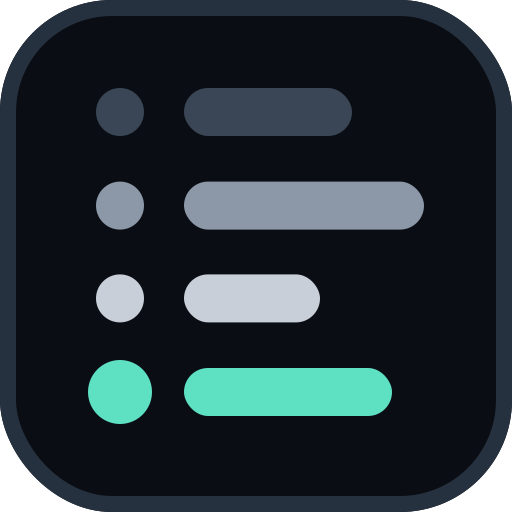
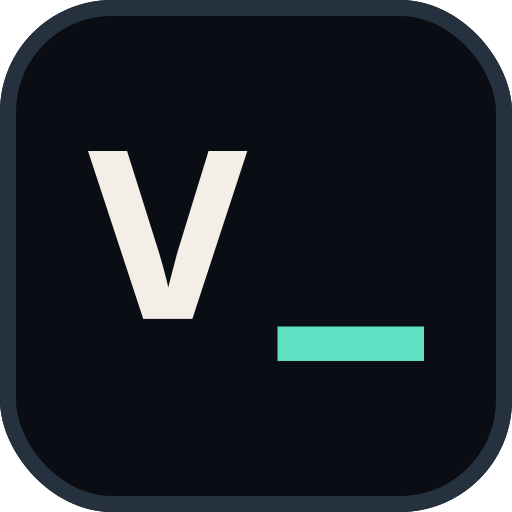
fix: 아이콘을 v_ 원형(자연 모노 간격)으로 확정 — 정렬만 보정
왜: 커밋 로그 심볼도, 커닝으로 당긴 v_도 결국 변형이었다 (Jessi: …). JetBrains Mono Bold의 v와 _를 자연 어드밴스(600유닛) 그대로 두고, 잉크 전체를 좌우 11px·수직 정중앙으로 정렬만 했다. 콘텐츠가 안전 원 안에 들어 maskable도 축소 없이 같은 배치. 16px 가독·원형 크롭 확인, 시안 승인 후 적용.

Claude-Session: https://claude.ai/code/session_01WuW6xZfcXoUaVcGfDkFzy2

Changed region(s): [[0.1562, 0.1562, 0.8438, 0.8125], [0.1562, 0.6875, 0.3125, 0.8438]]

diff --git a/.claude/skills/vibelog-design/README.md b/.claude/skills/vibelog-design/README.md
@@ -84,7 +84,7 @@ Vibelog(바이브 로그) — 바이브 코딩 프로젝트들의 제작기·현
 폰트: Google Fonts `Noto Sans KR 400 500 700 900` + `JetBrains Mono 500 700` (`tokens/fonts.css`). 렌더 환경(Remotion/Playwright)에는 Noto Sans CJK KR 로컬 설치.
 
 ## Assets
-- 로고 없음. 워드마크는 텍스트(`vibelog` **JetBrains Mono 700** — 코드 느낌, Jessi 지시. 쇼츠 타이포의 Noto Sans KR 900은 별개). 파비콘·앱 아이콘은 **커밋 로그 심볼**(커밋 점+메시지 줄 4개, 최신이 민트 — app/icon.svg). 레터마크 v_는 폐기(Jessi). OG 카드는 모노 워드마크.
+- 로고 없음. 워드마크는 텍스트(`vibelog` **JetBrains Mono 700** — 코드 느낌, Jessi 지시. 쇼츠 타이포의 Noto Sans KR 900은 별개). 파비콘·앱 아이콘은 **`v_` 레터마크**(JetBrains Mono Bold, 자연 모노 간격 그대로 — 커닝 등 변형 금지, Jessi 확정. app/icon.svg). OG 카드는 모노 워드마크.
 - 아이콘 세트 없음. 모노 유니코드 글리프만: ● ✓ ✗ → ↗ × ⋯ ▾ ▍ $ ▶ ·
 - **프로젝트 식별색** — "민트 하나" 규칙의 유일한 예외 (Jessi 지시). `lib/project-color.ts`가 레포 이름 해시로 파스텔 5색을 배정, vibelog 자신은 민트 고정. 피드 이니셜 마커·프로젝트명·필터 칩 점에 쓴다. 난색(오렌지·레드)은 의미색과 겹쳐 팔레트에서 제외.
 - 이모지는 텔레그램 인라인 키보드 ✅ ✏ ❌ 에서만.

diff --git a/.claude/skills/vibelog-design/DESIGN_SYSTEM.md b/.claude/skills/vibelog-design/DESIGN_SYSTEM.md
@@ -15,7 +15,7 @@
 - `uploads/vibelog-docs/docs/shorts-prototype.html` — 승인된 Ship it 샘플 (컴포넌트 치수의 원본)
 - `samples/A · B · C` — 이 세션에서 제안한 블로그 방향 3종. **C(현황판)** 채택. A(로그형)·B(에디토리얼)는 참고용으로 남김.
 
-로고 없음 — 제공된 소스에 마크가 없어 만들지 않았다. 워드마크(소문자 `vibelog`, **JetBrains Mono 700** — 코드 느낌, Jessi 지시)가 마크 역할. 파비콘·앱 아이콘은 커밋 로그 심볼(app/icon.svg — 커밋 점+메시지 줄, 최신 민트). 레터마크 v_는 폐기.
+로고 없음 — 제공된 소스에 마크가 없어 만들지 않았다. 워드마크(소문자 `vibelog`, **JetBrains Mono 700** — 코드 느낌, Jessi 지시)가 마크 역할. 파비콘·앱 아이콘은 `v_` 레터마크(app/icon.svg — JetBrains Mono Bold 자연 간격, 변형 금지·정렬만. Jessi 확정).
 
 ## 손맛 규칙 (AI 생성 티 빼기)
 
